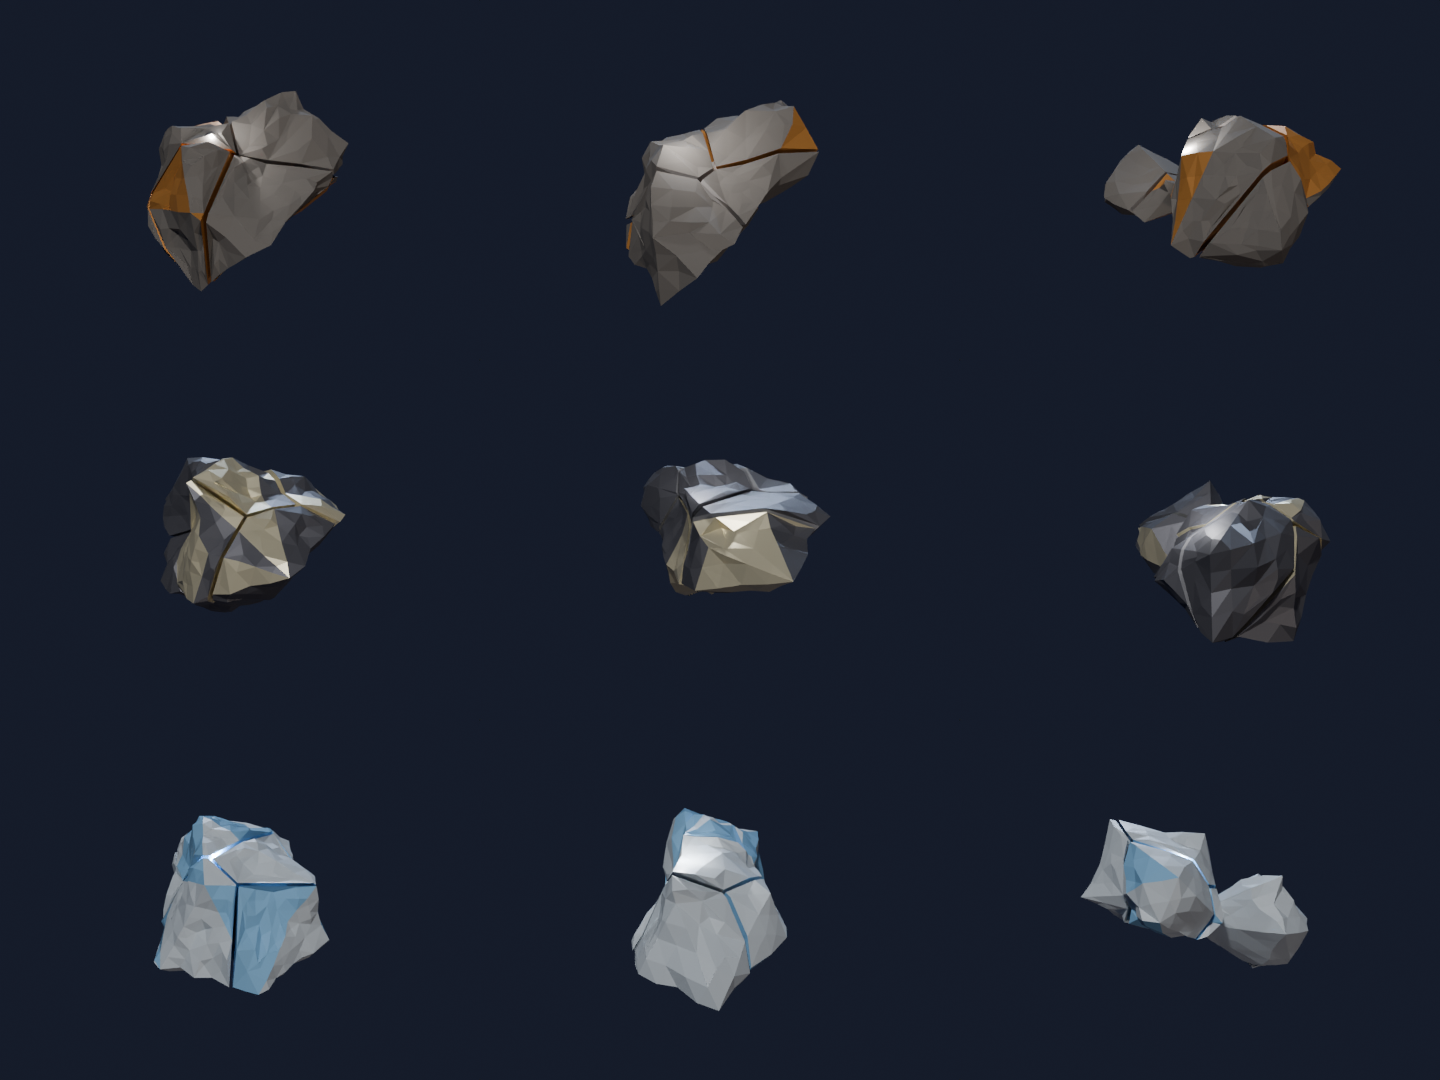
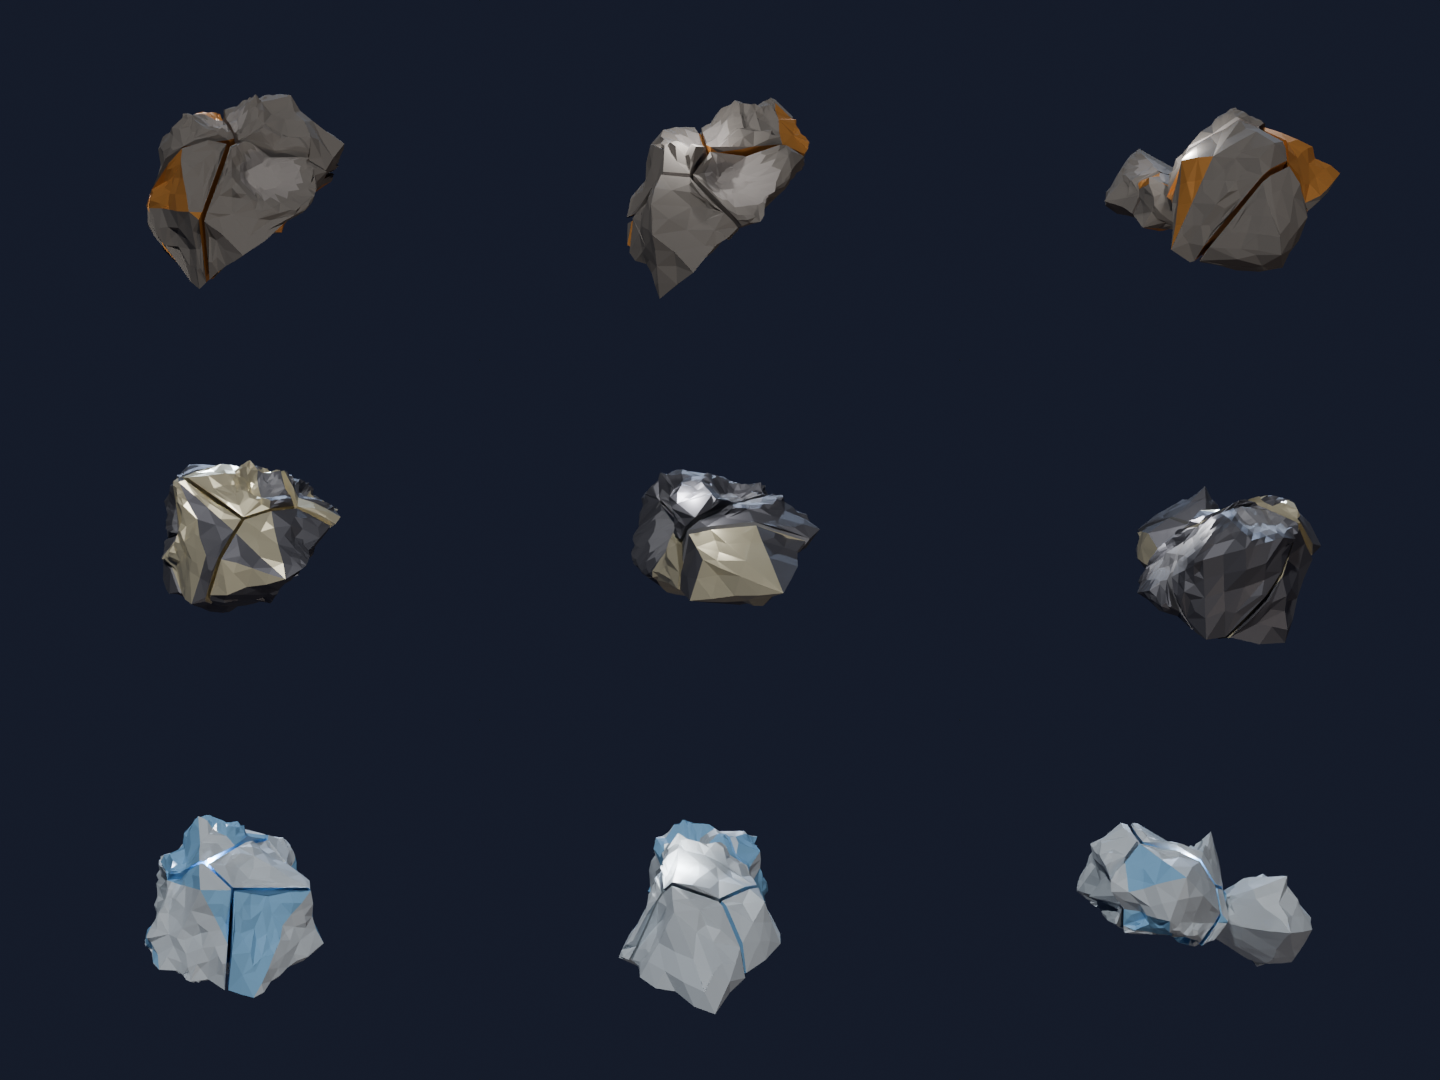
Asteroids: readable craters
Flat floor, steep wall and a raised rim; finer subdivision in and around
craters, calmer noise on the floor, fresh-rock (plain) floor material. More,
smaller craters by default (6, 8-17 % of the size). The triangle budget first
drops break levels, then coarsens the surface.

Claude-Session: https://claude.ai/code/session_0189xRjiiTMx3apXWGHbTKDT

diff --git a/shipgen/asteroids/surface.py b/shipgen/asteroids/surface.py
@@ -22,6 +22,9 @@ from mathutils import Vector, noise
 from . import geometry as geo
 
 FRACTURE_LAYER = "fracture"  # int face layer: 1 on break faces (kept flat-ish, not subdivided)
+CRATER_FLOOR = 0.55  # share of the radius that is flat floor
+CRATER_RIM = 1.4  # the raised rim ends at this many radii
+RIM_HEIGHT = 0.45  # rim height relative to the depth
 
 
 @dataclass
@@ -32,6 +35,7 @@ class Surface:
     freq: float
     offset: Vector
     craters: list = field(default_factory=list)  # (centre, radius, depth)
+    coarse: float = 1.0  # > 1: bigger triangles everywhere (triangle budget)
 
     def displacement(self, p: Vector) -> float:
         """Outward (+) / inward (-) push at world point ``p``."""
@@ -40,21 +44,38 @@ class Surface:
         # per-vertex jitter (a hash of the position, so neighbours that share a point agree):
         # chips the facets into small, sharp, uneven planes
         d += 0.22 * self.amp * noise.noise(p * 37.0 / self.edge + self.offset)
+        # crater floors are smoother than the rock around them, so the bowl reads
+        calm = max((max(0.0, 1.0 - (p - c).length / r) for c, r, _ in self.craters), default=0.0)
+        d *= 1.0 - 0.75 * min(1.0, 2.0 * calm)
         for c, r, depth in self.craters:
             t = (p - c).length / r
-            if t < 1.0:
-                d -= depth * (1.0 - t * t)  # bowl
-            elif t < 1.35:
-                d += 0.25 * depth * math.sin(math.pi * (t - 1.0) / 0.35)  # rim
+            if t < CRATER_FLOOR:
+                d -= depth  # flat floor
+            elif t < 1.0:
+                f = (1.0 - t) / (1.0 - CRATER_FLOOR)  # steep wall
+                d -= depth * f * f * (3.0 - 2.0 * f)
+            elif t < CRATER_RIM:
+                d += RIM_HEIGHT * depth * math.sin(math.pi * (t - 1.0) / (CRATER_RIM - 1.0))  # raised rim
         return d
 
+    def in_crater(self, p: Vector, reach: float = 1.0) -> bool:
+        return any((p - c).length < reach * r for c, r, _ in self.craters)
 
-def make_surface(p, pieces, rng: random.Random) -> Surface:
+    def crater_edge(self, p: Vector) -> float:
+        """Target edge length near ``p``: finer in and around craters, so bowl and rim show."""
+        for c, r, _ in self.craters:
+            if (p - c).length < CRATER_RIM * r:
+                return min(self.edge, self.coarse * r / 3.0)
+        return self.edge
+
+
+def make_surface(p, pieces, rng: random.Random, coarse: float = 1.0) -> Surface:
+    """``coarse`` > 1 makes the surface triangles bigger (triangle budget)."""
     pts = [q for piece in pieces for q in piece]
     centre = geo.centroid(pts)
     size = p["size_m"]
-    surf = Surface(centre=centre, edge=size / 10.0, amp=0.12 * size * p["roughness"],
-                   freq=4.0 / size, offset=Vector((rng.uniform(-50, 50) for _ in range(3))))
+    surf = Surface(centre=centre, edge=coarse * size / 10.0, amp=0.12 * size * p["roughness"],
+                   freq=4.0 / size, offset=Vector((rng.uniform(-50, 50) for _ in range(3))), coarse=coarse)
     pls = [geo.planes(piece) for piece in pieces]
     for _ in range(p["craters"]):
         i = rng.randrange(len(pieces))
@@ -62,22 +83,23 @@ def make_surface(p, pieces, rng: random.Random) -> Surface:
         direction = Vector((rng.gauss(0, 1), rng.gauss(0, 1), rng.gauss(0, 1))).normalized()
         # where the ray from the piece's centre leaves it (convex): the crater sits on its surface
         t = min((d - n.dot(start)) / n.dot(direction) for n, d in pls[i] if n.dot(direction) > 1e-6)
-        r = rng.uniform(0.14, 0.3) * size
-        surf.craters.append((start + direction * t, r, rng.uniform(0.3, 0.45) * r))
+        r = rng.uniform(0.08, 0.17) * size
+        surf.craters.append((start + direction * t, r, rng.uniform(0.4, 0.55) * r))
     return surf
 
 
-def roughen(bm, surf: Surface, limit: float) -> None:
+def roughen(bm, surf: Surface, limit: float, floor_material: int | None = None) -> None:
     """Subdivide the surface faces of ``bm`` (world space) and displace them; ``limit`` caps the
-    push (thin chunks must not fold over)."""
+    push (thin chunks must not fold over). Surface faces on a crater floor get
+    ``floor_material`` (fresh, uncovered rock) unless they show the resource."""
     layer = bm.faces.layers.int.get(FRACTURE_LAYER)
 
     def surface_face(f):
         return f[layer] == 0
 
-    for _ in range(4):
-        long = [e for e in bm.edges
-                if e.calc_length() > surf.edge and all(surface_face(f) for f in e.link_faces)]
+    for _ in range(6):
+        long = [e for e in bm.edges if all(surface_face(f) for f in e.link_faces)
+                and e.calc_length() > surf.crater_edge((e.verts[0].co + e.verts[1].co) / 2)]
         if not long:
             break
         bmesh.ops.subdivide_edges(bm, edges=long, cuts=1, use_grid_fill=True, use_single_edge=True)
@@ -92,6 +114,10 @@ def roughen(bm, surf: Surface, limit: float) -> None:
         d = max(-limit, min(limit, surf.displacement(v.co)))
         v.co += radial.normalized() * d
         moved = True
+    if floor_material is not None:
+        for f in bm.faces:
+            if surface_face(f) and f.material_index == 0 and surf.in_crater(f.calc_center_median(), 0.9):
+                f.material_index = floor_material
     if moved:  # break faces that lost their planarity are split into triangles
         bmesh.ops.triangulate(bm, faces=[f for f in bm.faces if not surface_face(f) and len(f.verts) > 3])
     bmesh.ops.recalc_face_normals(bm, faces=bm.faces)

diff --git a/shipgen/asteroids/__init__.py b/shipgen/asteroids/__init__.py
@@ -92,15 +92,19 @@ def generate(raw_params: dict) -> Asteroid:
     result = params_mod.validate(raw_params)
     p = result.params
     warnings = list(result.warnings)
-    levels = p["max_levels"]
+    levels, coarse = p["max_levels"], 1.0
     while True:
-        tree, fractures, surf = _fracture(p, levels)
+        tree, fractures, surf = _fracture(p, levels, coarse)
         rock = _build_objects(p, tree, fractures, surf)
         tris = sum(len(poly.vertices) - 2 for c in rock.chunks for poly in c.obj.data.polygons)
-        if tris <= p["max_tris"] or levels == 1:
+        if tris <= p["max_tris"] or coarse >= MAX_COARSE:
             break
-        levels -= 1
-        warnings.append(f"max_levels reduced to {levels} to stay within max_tris ({tris} tris)")
+        if levels > 1:  # first fewer break levels, then bigger surface triangles
+            levels -= 1
+            warnings.append(f"max_levels reduced to {levels} to stay within max_tris ({tris} tris)")
+        else:
+            coarse *= 1.5
+            warnings.append(f"surface coarsened (x{coarse:.2f}) to stay within max_tris ({tris} tris)")
     rock.warnings = warnings
     return rock
 
@@ -134,11 +138,14 @@ def _base_pieces(p, rng) -> list[list[Vector]]:
     return [[(rot @ q) * scale for q in piece] for piece in pieces]
 
 
-def _fracture(p, levels: int):
+MAX_COARSE = 5.0
+
+
+def _fracture(p, levels: int, coarse: float = 1.0):
     """Chunk tree, every fracture plane (break faces lie on one of them) and the rock surface."""
     rng = random.Random(f"{p['seed']}:{p['composition']}:asteroid")
     pieces = _base_pieces(p, rng)
-    surf = surface_mod.make_surface(p, pieces, random.Random(f"{p['seed']}:{p['composition']}:surface"))
+    surf = surface_mod.make_surface(p, pieces, random.Random(f"{p['seed']}:{p['composition']}:surface"), coarse)
     fractures: list[tuple[Vector, float]] = []
     total = sum(geo.volume(pc) for pc in pieces)
     top: list[Chunk] = []
@@ -230,7 +237,7 @@ def _build_objects(p, tree: list[Chunk], fractures, surf) -> Asteroid:
             else:
                 f.material_index = 2 if chunk.rich and rng.random() < VEIN_SHARE else 0
         if p["roughness"] > 0 or p["craters"]:
-            surface_mod.roughen(bm, surf, 0.18 * geo.diameter(pts))
+            surface_mod.roughen(bm, surf, 0.18 * geo.diameter(pts), floor_material=1)
         c = geo.centroid([v.co for v in bm.verts])
         for v in bm.verts:
             v.co -= c

diff --git a/shipgen/asteroids/params.py b/shipgen/asteroids/params.py
@@ -22,7 +22,7 @@ SCHEMA: dict[str, Any] = {
     "max_levels": Field(int, 4, 1, 6, description="Break levels prepared in advance"),
     "richness": Field(float, 0.6, 0.0, 1.0, description="Share of chunks that carry the resource (rest is plain rock)"),
     "roughness": Field(float, 0.5, 0.0, 1.0, description="Breaks the flat facets: bumps and dents (0 = clean facets)"),
-    "craters": Field(int, 4, 0, 12, description="Craters on the surface"),
+    "craters": Field(int, 6, 0, 16, description="Craters on the surface"),
     "gap": Field(float, 0.03, 0.0, 0.15, description="Crack width between chunks: gap x size_m / 2"),
     "max_tris": Field(int, 30000, 500, 500000, description="Triangle budget for all levels together"),
 }

diff --git a/docs/asteroids/README.md b/docs/asteroids/README.md
@@ -25,11 +25,16 @@ und mit **Show Level** die vorgebrochenen Ebenen im Viewport.
   zwei Hälften, an einer Ebene getrennt (Taille). Low Poly, flach schattiert.
 - **Vorgebrochen:** Voronoi-Zerlegung in konvexe Brocken (`chunks`), große Brocken zerfallen
   weiter (`sub_chunks`), bis unter etwa 2 × `min_chunk_m` oder `max_levels`. Knappe
-  `max_tris` nehmen Ebenen weg (mit Warnung).
+  `max_tris` nehmen erst Ebenen weg, dann werden die Oberflächen-Dreiecke größer (je mit
+  Warnung).
 - **Raue Oberfläche** (`surface.py`, `roughness`, `craters`): die Außenflächen jedes Brockens
   werden in kleinere Dreiecke geteilt und per Rauschen (zwei Oktaven + kleines Zittern) und
   Kratern verschoben. Das Rauschen hängt nur von der Weltposition ab: Nachbarn und
   Unterbrocken haben an derselben Stelle dieselbe Oberfläche. Bruchflächen bleiben glatt.
+- **Krater** (`craters`, Standard 6, Radius 8–17 % der Größe): flacher Boden, steile Wand,
+  erhöhter Rand; um Krater herum ist die Oberfläche feiner unterteilt und der Boden ruhiger
+  (weniger Rauschen), damit die Schüssel lesbar ist. Kraterböden zeigen frisches Gestein
+  (Material `plain`), außer wo eine Ader liegt.
 - **Collider:** jeder Brocken hat ein Kind `<Name>_col-convcolonly` = konvexe Hülle seiner
   Punkte (Godot: unsichtbare konvexe Collision-Shape), das sichtbare Mesh liegt komplett darin.
 - **Lesbarkeit:** feine Risse zwischen den Brocken (`gap`). Erzhaltige Brocken haben

diff --git a/docs/export_format.md b/docs/export_format.md
@@ -305,7 +305,7 @@ Taube Brocken (`resource: "rock"`) liefern 5 %.
 | Rolle | Verwendung |
 |---|---|
 | `surface` | Außenfläche |
-| `plain` | Bruchflächen tauber Brocken |
+| `plain` | Bruchflächen tauber Brocken, Kraterböden |
 | `resource` | Bruchflächen und Adern erzhaltiger Brocken (zeigt den Rohstoff) |
 
 Es stehen nur die Materialien in der Datei, die vorkommen (z. B. fehlt `plain`, wenn alle
